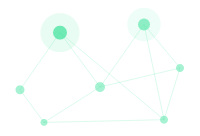
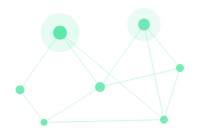
fix(ui): brighten network mesh nodes/lines, keep it secondary (CONN-08)
Raise the status-card mesh alphas per spec section 10 so it reads
clearly on the dark panel without becoming the focal point:
- Ready nodes now sit in the 70-90% band (idle 0.85/0.72; animated
  0.80-0.90 hubs, 0.70-0.76 others).
- Ready lines now sit in the 25-35% band (idle 0.30; animated 0.26-0.32).
- Dimmed non-Ready states stay quieter but perceptible: nodes 0.46-0.52,
  lines 0.18.
- Hub halo multiplier (alpha * 0.16) unchanged; it scales with the new
  node alphas for the same gentle glow feel.
- Mesh topology untouched; mesh_is_decentralized_not_star_shaped passes.
- Regenerated offscreen captures (mesh + all status card states).

diff --git a/examples/iced_chat/status_card.rs b/examples/iced_chat/status_card.rs
@@ -653,17 +653,23 @@ impl canvas::Program<AppMessage> for NetworkMesh {
             (0.0, 0.0)
         };
 
+        // Alpha bands (CONN-08: the mesh was "too dark and subtle" — spec
+        // section 10; brightened while staying secondary to the status):
+        //   Ready (idle / animated) — nodes 0.70-0.90, lines 0.25-0.35.
+        //   Dimmed (non-Ready)      — nodes ~0.45-0.55, lines ~0.18:
+        //     quiet enough to never compete with amber/red signals, but
+        //     still perceptible on the near-black card gradient.
         let (node_a, node_b, other, line_a) = if self.dimmed {
-            (0.35, 0.35, 0.30, 0.12)
+            (0.52, 0.52, 0.46, 0.18)
         } else if self.animate {
             (
-                0.55 + 0.25 * (0.5 + 0.5 * sin_t),
-                0.55 + 0.20 * (0.5 + 0.5 * cos_t),
-                0.42 + 0.08 * (0.5 + 0.5 * sin_t),
-                0.18 + 0.07 * (0.5 + 0.5 * cos_t),
+                0.80 + 0.10 * (0.5 + 0.5 * sin_t),
+                0.75 + 0.10 * (0.5 + 0.5 * cos_t),
+                0.70 + 0.06 * (0.5 + 0.5 * sin_t),
+                0.26 + 0.06 * (0.5 + 0.5 * cos_t),
             )
         } else {
-            (0.65, 0.65, 0.50, 0.22)
+            (0.85, 0.85, 0.72, 0.30)
         };
 
         let pos = |i: usize| {
